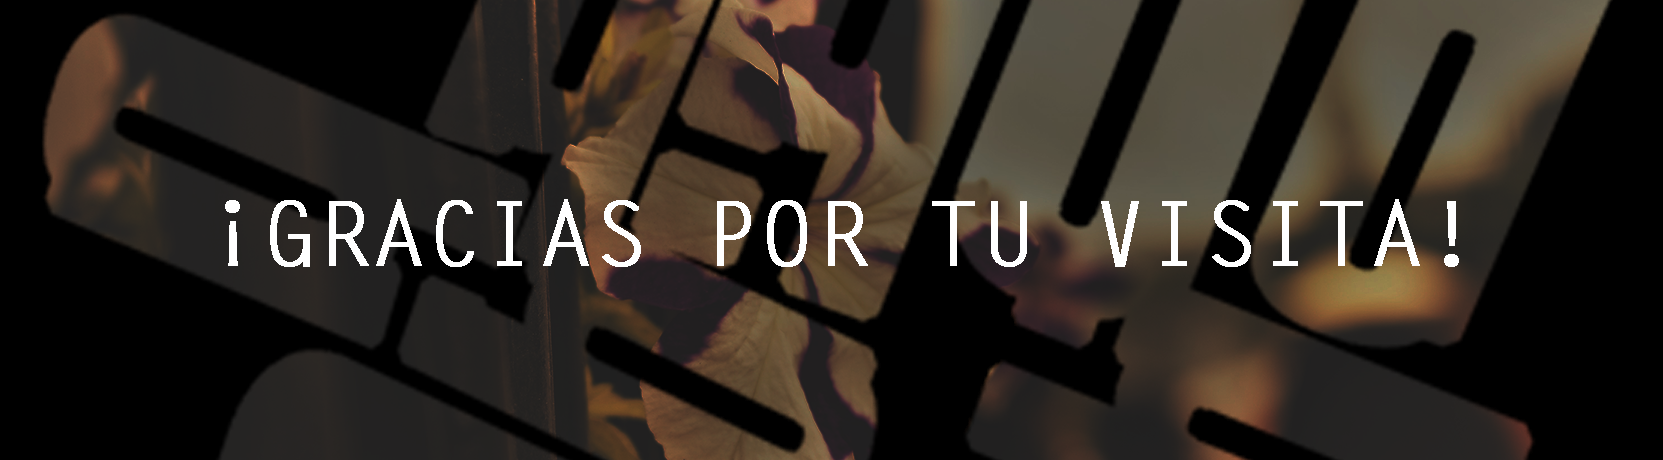
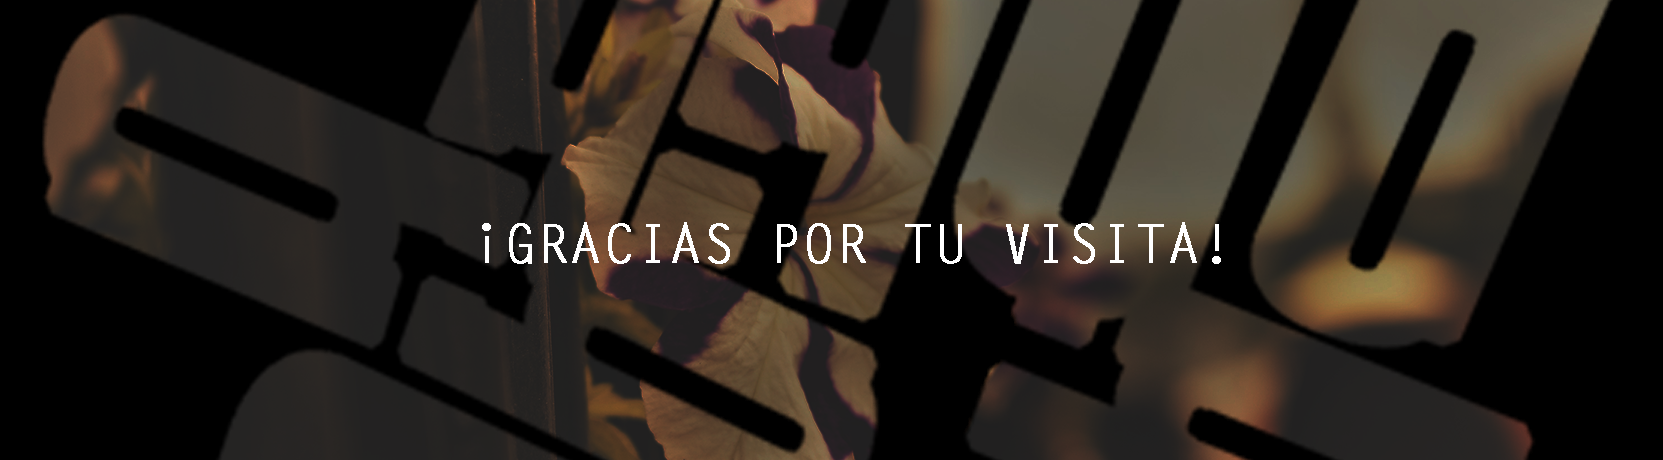
Corrección de imagen de footer

Changed region(s): [[0.1227, 0.4261, 0.5213, 0.5783], [0.552, 0.4261, 0.8894, 0.5783]]

diff --git a/views/bea/Guiado-framework.html b/views/bea/Guiado-framework.html
@@ -157,9 +157,9 @@
 	<br>
 	<footer id="pie">
 		<div class="imagen">
-			<img class="d-block w-100" src="../../img/beatriz_img/ban3.png">
-					</div>
-						</div>
+			<img class="d-block w-100" src="../../img/beatriz_img/pieimg.png">
+		</div>
+	</div>
 		<div class="container-fluid bg-dark alturita">
 			<div class="row">
 				<div class="col-lg-12">
